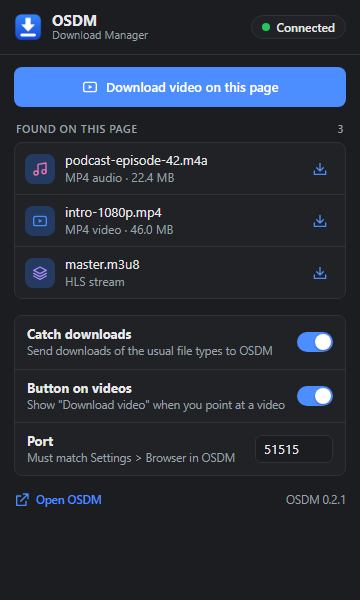
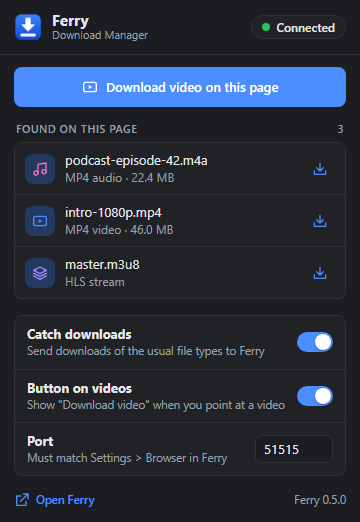
Add new screenshots, code signing policy and optional SignPath signing
- Replace the OSDM screenshots with ones of Ferry 0.5.0: main window in
  light and dark, the video quality menu and the extension popup, and
  show them in the README.
- README: code signing policy (roles, how releases are built, privacy).
- Release workflow signs Ferry.exe and the installer through SignPath once
  SIGNPATH_ORGANIZATION_ID and SIGNPATH_API_TOKEN are set; unsigned until
  then. build-installer.ps1 gets -SkipPublish for this.

diff --git a/README.md b/README.md
@@ -7,6 +7,11 @@
 [![Build](https://github.com/tanzeel152/Ferry/actions/workflows/build.yml/badge.svg)](https://github.com/tanzeel152/Ferry/actions/workflows/build.yml)
 [![License: GPL v3](https://img.shields.io/badge/license-GPL--3.0-blue)](LICENSE)
 
+<picture>
+  <source media="(prefers-color-scheme: dark)" srcset="screenshots/main-dark.png">
+  <img src="screenshots/main-light.png" alt="Ferry's download window: categories on the left, a list of downloads with progress bars, and one file downloading on 8 connections">
+</picture>
+
 Ferry was called OSDM (Open Source Download Manager) up to version 0.4. See [Upgrading from OSDM](#upgrading-from-osdm).
 
 ## Download
@@ -37,6 +42,10 @@ Ferry runs on 64-bit Windows 10 and 11 and does not need .NET installed.
   - detects HLS/DASH streams and media files on the page and lists them in its popup, which also shows whether Ferry is running and can bring its window up
 - **Video downloads** from YouTube and about 1,800 other sites, plus HLS (`.m3u8`) and DASH (`.mpd`) streams, using yt-dlp and FFmpeg. They use several connections too: stream pieces download in parallel, and YouTube videos are fetched in 10 MB pieces. The quality picked in the browser shows in Ferry's download window, where it can be changed (or set to one of the Settings presets).
 - Speed limit, proxy (HTTP or SOCKS), retries, automatic file naming (`Content-Disposition`, de-duplicated names), clipboard monitoring, drag and drop, single instance (`Ferry.exe <url>` hands the URL to the running copy).
+
+| Download video, in the quality you pick | The extension's popup |
+|---|---|
+| <img src="screenshots/video-menu.png" alt="A Download video button over a video, with a menu of qualities from 2160p60 down to Audio only, each with its size" width="560"> | <picture><source media="(prefers-color-scheme: dark)" srcset="screenshots/extension-popup-dark.png"><img src="screenshots/extension-popup-light.png" alt="The Ferry extension popup: connected to Ferry, a Download video on this page button, and media files found on the page" width="300"></picture> |
 
 ## Install
 
@@ -154,6 +163,15 @@ Command line: `Ferry.exe <url>` adds a download, `--tray` starts without opening
 - Code-signed releases
 
 Network drivers like IDM's "Advanced Integration" are not planned. They need a signed kernel driver, and the browser extension covers modern HTTPS sites anyway.
+
+## Code signing policy
+
+Ferry's Windows releases are not code-signed yet; we plan to sign them through [SignPath Foundation](https://signpath.org)'s free program for open-source projects. Until then, check downloads against `SHA256SUMS.txt` on the release page.
+
+- **How releases are made:** every release is built by [GitHub Actions](.github/workflows/release.yml) from the source code in this repository. No release file is built on anyone's own computer.
+- **Committers and reviewers:** [Tanzeel Ahmed (@tanzeel152)](https://github.com/tanzeel152). Changes from other contributors are reviewed by a committer before they are merged.
+- **Approvers:** [Tanzeel Ahmed (@tanzeel152)](https://github.com/tanzeel152). Once signing starts, each signing request is approved by hand.
+- **Privacy:** Ferry does not send information to other computers unless you ask it to. It connects to the sites you download from, and to python.org and GitHub only when you install the video tools (**Tools > Install video tools**, or once, automatically, to replace the video tools installed by OSDM 0.3). The browser extension talks only to Ferry on your own computer. Video downloads run yt-dlp, which contacts the video's site.
 
 ## License
 

diff --git a/CONTRIBUTING.md b/CONTRIBUTING.md
@@ -59,6 +59,32 @@ There are no automated tests yet (adding some to `Ferry.Core` is a welcome contr
 
 The [release workflow](.github/workflows/release.yml) builds the installer, the portable zip and the extension zip on GitHub's servers, writes `SHA256SUMS.txt`, and publishes them as a GitHub release with that version's notes from `CHANGELOG.md`.
 
+## Code signing (maintainers)
+
+Releases are unsigned until [SignPath Foundation](https://signpath.org) approves Ferry for free code signing. To set it up:
+
+1. Apply at [signpath.org](https://signpath.org) (choose **Apply**). They require a published release, so apply after the first one. Turn on two-factor authentication for GitHub first; SignPath requires it.
+2. Once approved, in SignPath create a project with the slug `ferry`, linked to this repository as a GitHub trusted build system, with a signing policy `release-signing` (manual approval on) and two artifact configurations:
+
+   `app`:
+
+   ```xml
+   <artifact-configuration xmlns="http://signpath.io/artifact-configuration/v1">
+     <zip-file>
+       <pe-file path="Ferry.exe">
+         <authenticode-sign/>
+       </pe-file>
+     </zip-file>
+   </artifact-configuration>
+   ```
+
+   `setup`: the same, with `path="Ferry-Setup.exe"`.
+
+3. In this repository's **Settings > Secrets and variables > Actions**, add the variable `SIGNPATH_ORGANIZATION_ID` (your SignPath organization ID) and the secret `SIGNPATH_API_TOKEN` (an API token of a SignPath CI user that may submit signing requests).
+4. In README.md, add this line to **Code signing policy**: `Free code signing provided by [SignPath.io](https://about.signpath.io), certificate by [SignPath Foundation](https://signpath.org)`, and remove the "not signed yet" sentences from it and from **Download**.
+
+From then on, each release waits until an approver approves its two signing requests in SignPath.
+
 ## License
 
 By contributing, you agree that your contributions are licensed under the [GNU GPL v3 or later](LICENSE), like the rest of Ferry.
